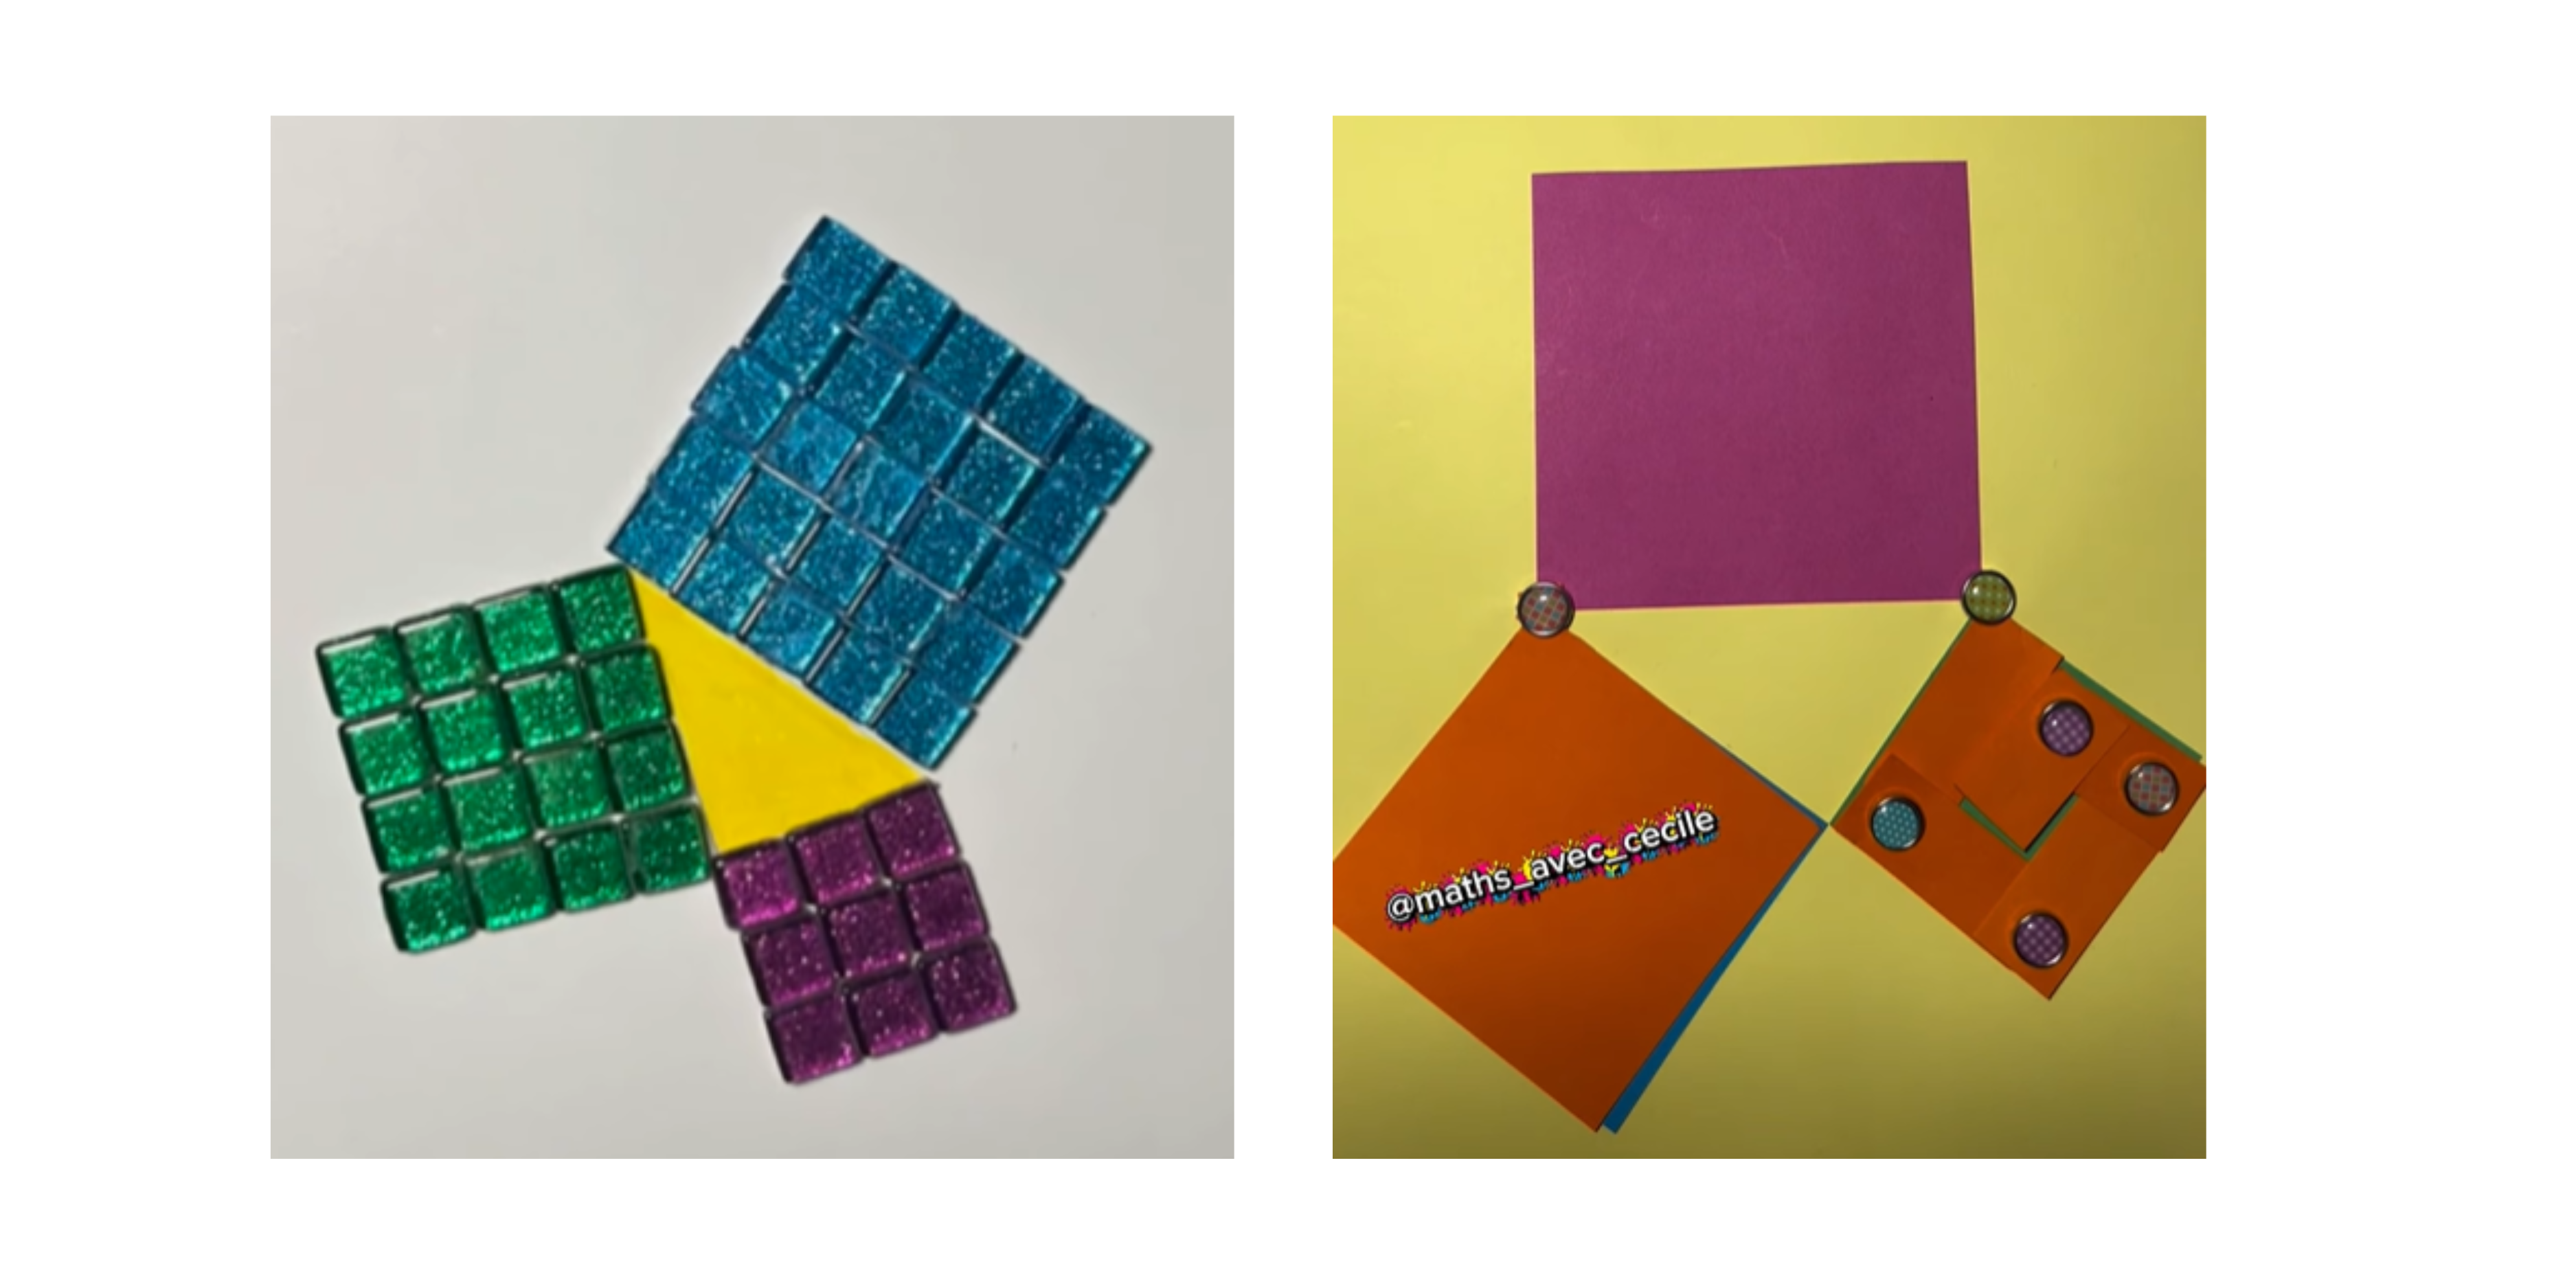
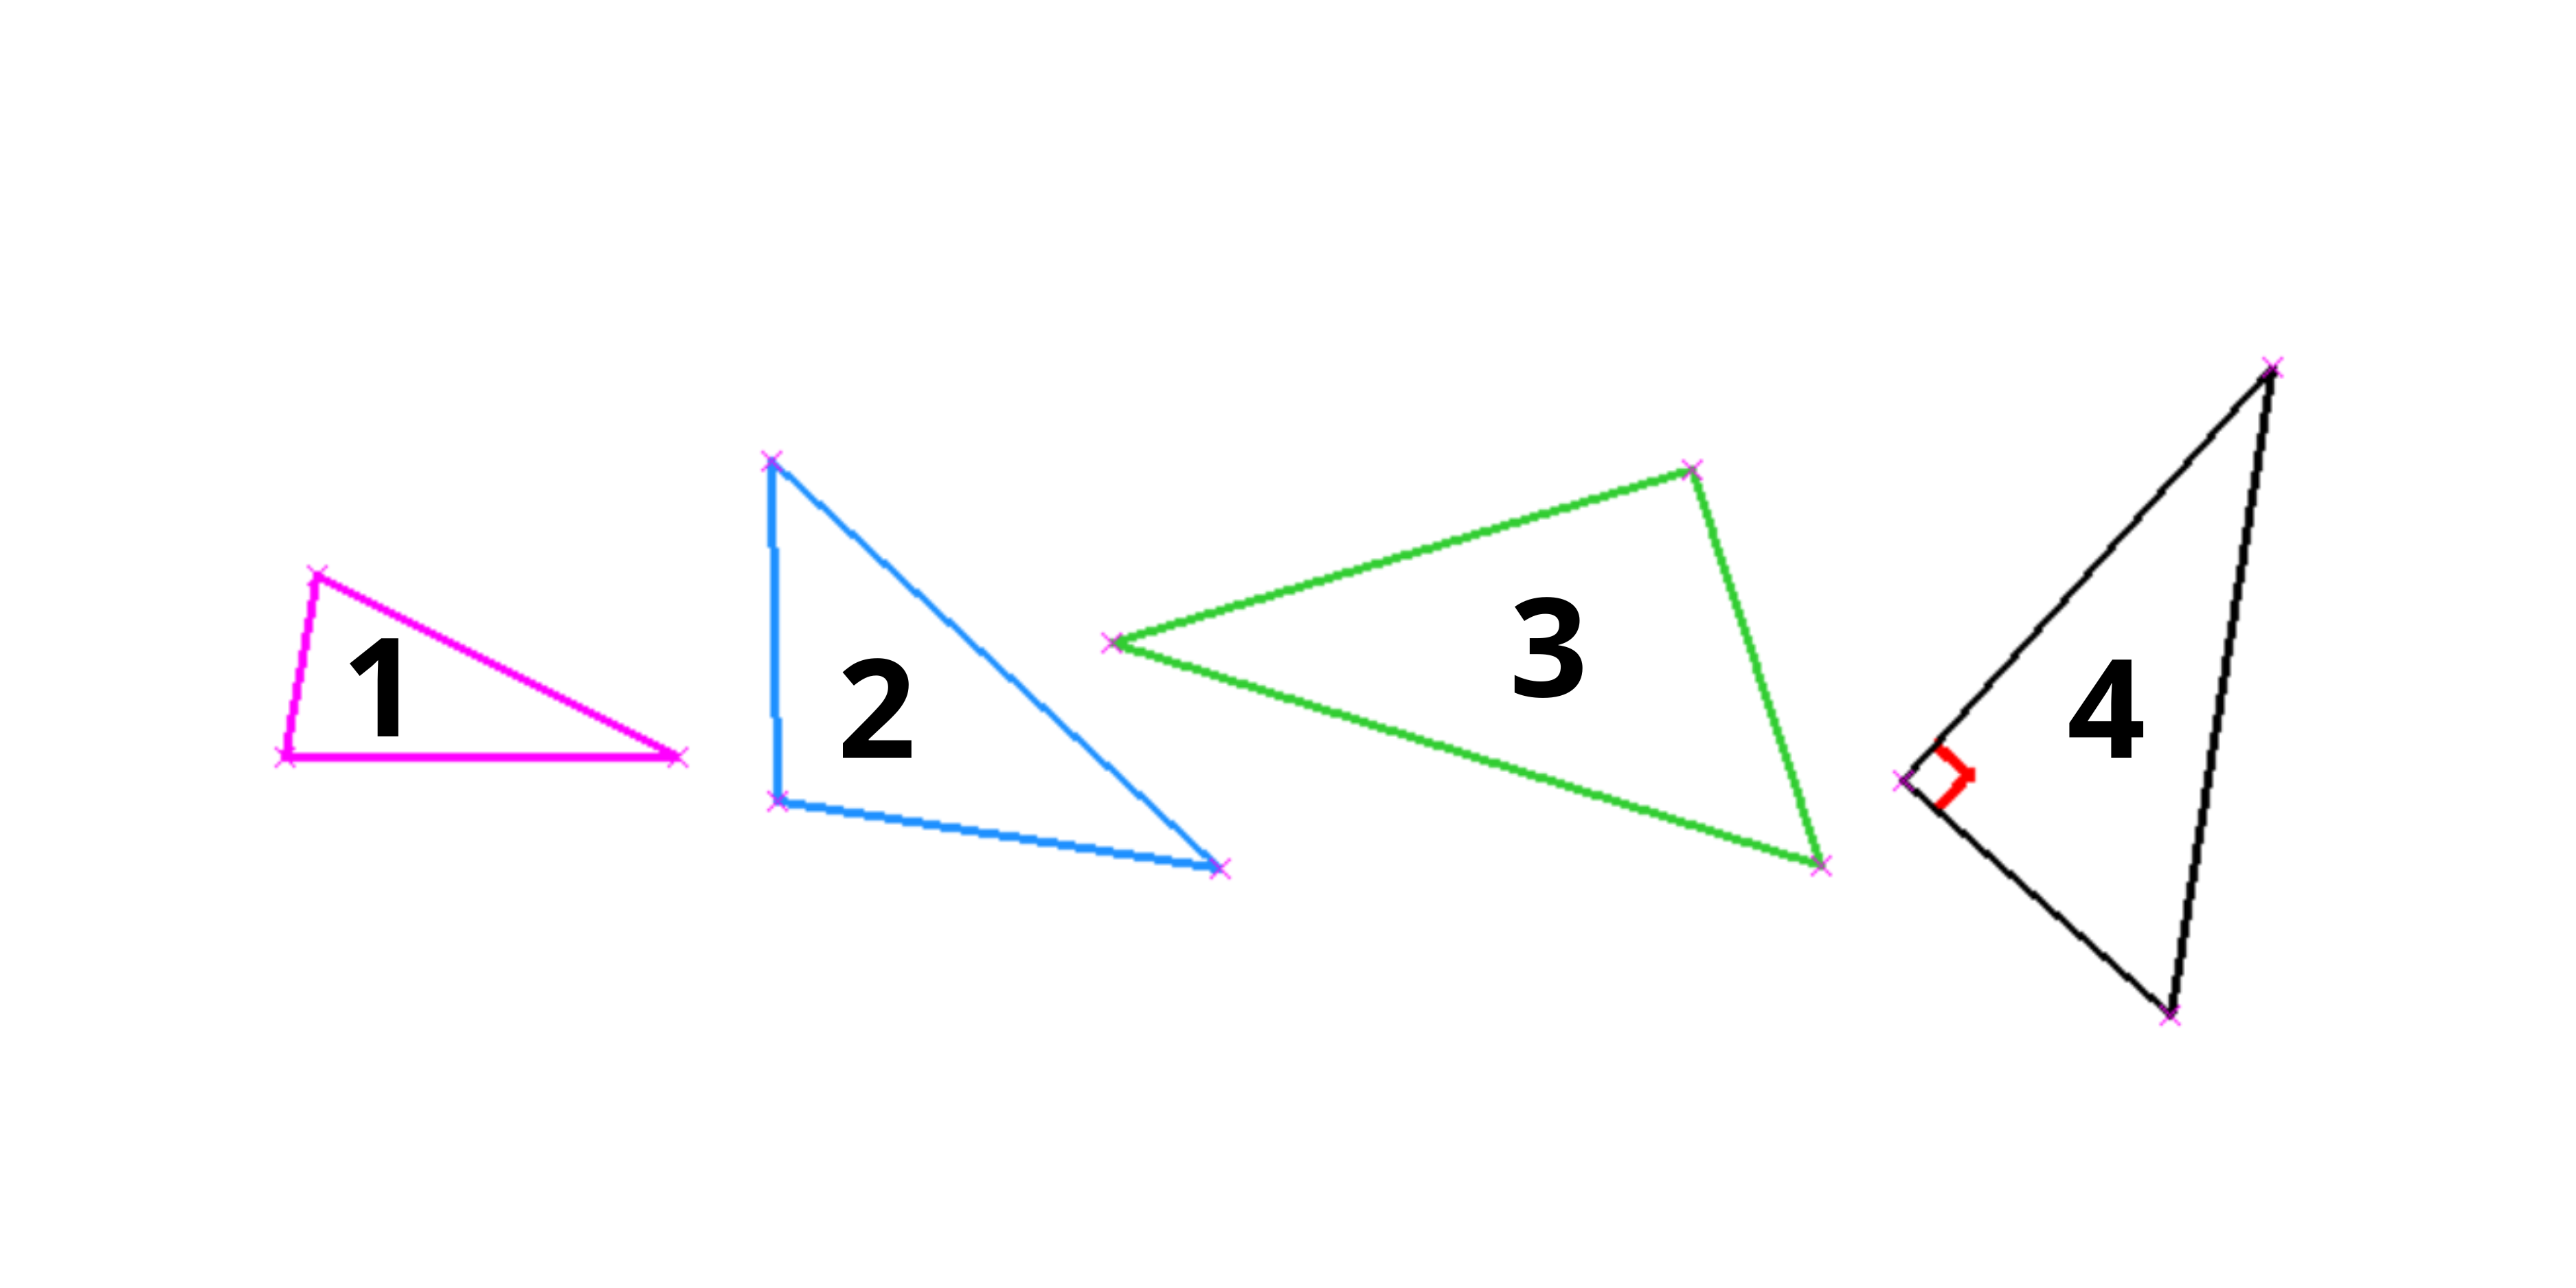
dernier

diff --git a/pythagore-direct-contraposee-et-reciproque-data.js b/pythagore-direct-contraposee-et-reciproque-data.js
@@ -9,6 +9,11 @@ const capsuleData = {
   "thumbnailPath": "",
   "steps": [
     {
+      "type": "video",
+      "title": "test",
+      "src": "https://youtube.com/shorts/xkt9xsxBie8"
+    },
+    {
       "type": "quiz",
       "quizType": "qcm",
       "title": "Quiz",
@@ -22,7 +27,7 @@ const capsuleData = {
       "correction": "",
       "pairs": [],
       "explanation": "\\\\( AB^2+AC^2=BC^2 \\\\) bravo etc bla bla test",
-      "image": "assets/quiz/pythagore-direct-contraposee-et-reciproque-quiz-1.png"
+      "image": "assets/quiz/pythagore-direct-contraposee-et-reciproque-quiz-2.png"
     },
     {
       "type": "quiz",
@@ -34,7 +39,7 @@ const capsuleData = {
       "correction": "L'hypoténuse",
       "pairs": [],
       "explanation": "",
-      "image": "assets/quiz/pythagore-direct-contraposee-et-reciproque-quiz-2.png"
+      "image": "assets/quiz/pythagore-direct-contraposee-et-reciproque-quiz-3.png"
     },
     {
       "type": "quiz",
@@ -59,7 +64,7 @@ const capsuleData = {
         ]
       ],
       "explanation": "Calculer \\( \\frac{3}{4}+\\frac{2}{5} \\)",
-      "image": "assets/quiz/pythagore-direct-contraposee-et-reciproque-quiz-3.png"
+      "image": "assets/quiz/pythagore-direct-contraposee-et-reciproque-quiz-4.png"
     },
     {
       "type": "quiz",
@@ -71,17 +76,12 @@ const capsuleData = {
       "correction": "",
       "pairs": [],
       "explanation": "Calculer \\( \\frac{3}{4}+\\frac{2}{5} \\)",
-      "image": "assets/quiz/pythagore-direct-contraposee-et-reciproque-quiz-4.png"
+      "image": "assets/quiz/pythagore-direct-contraposee-et-reciproque-quiz-5.png"
     },
     {
       "type": "image",
       "title": "Mode d'emploi.",
-      "src": "assets/images/pythagore-direct-contraposee-et-reciproque-image-5.jpg"
-    },
-    {
-      "type": "video",
-      "title": "test",
-      "src": "https://youtube.com/shorts/xkt9xsxBie8"
+      "src": "assets/images/pythagore-direct-contraposee-et-reciproque-image-6.jpg"
     },
     {
       "type": "image",